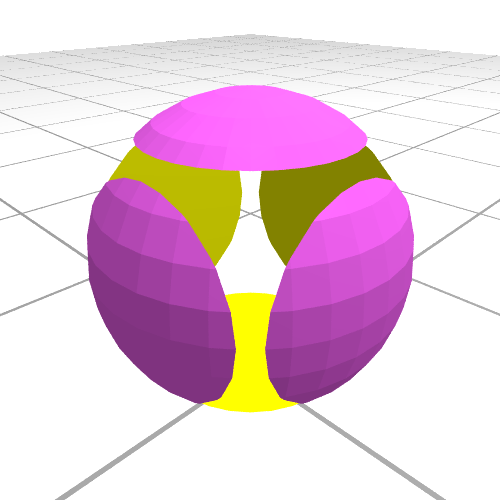
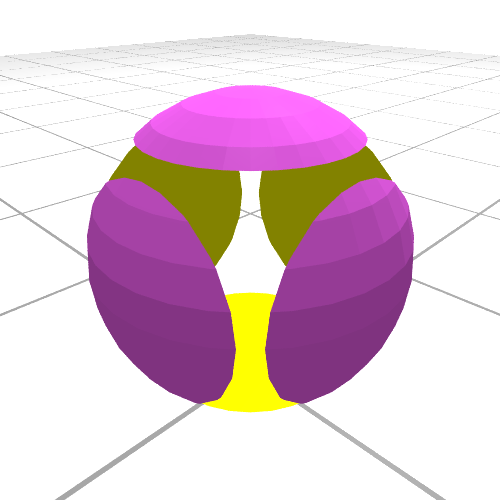
cube() center fix

Changed region(s): [[0.51, 0.33, 0.84, 0.75], [0.21, 0.27, 0.69, 0.63], [0.06, 0.15, 0.09, 0.18]]

diff --git a/openscad.js b/openscad.js
@@ -103,8 +103,6 @@ function cube(p) {
    if(p&&p.size&&p.size.length) v = p.size;
    if(p&&p.size&&!p.size.length) s = p.size;
    if(p&&!p.size&&!p.length&&p.center==='undefined'&&!p.round&&!p.radius) s = p;
-   off = [s/2,s/2,s/2];
-   if(p&&p.center==true) off = [0,0,0];
    if(p&&p.round==true) { round = true, r = v&&v.length?(v[0]+v[1]+v[2])/30:s/10}
    if(p&&p.radius) { round = true, r = p.radius; }
    if(p&&p.fn) fn = p.fn;
@@ -113,11 +111,12 @@ function cube(p) {
    if(v&&v.length) { 
       x = v[0], y = v[1], z = v[2]; 
    }
+   off = [x/2,y/2,z/2];       // center: false default
    var o = round?
       CSG.roundedCube({radius:[x/2,y/2,z/2], roundradius:r, resolution: fn}):
       CSG.cube({radius:[x/2,y/2,z/2]});
    if(p&&p.center&&p.center.length) {
-      off = [p.center[0]?0:x/2,p.center[1]?0:y/2,p.center[2]?0:z/2];
+      off = [p.center[0]?0:x/2, p.center[1]?0:y/2,p.center[2]?0:z/2];
    } else if(p&&p.center==true) { 
       off = [0,0,0];
    } else if(p&&p.center==false) {
